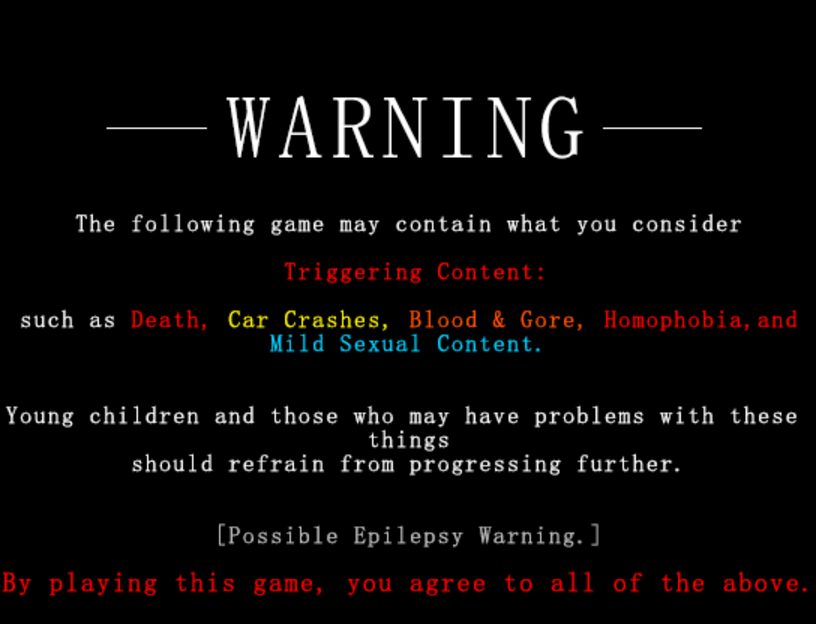
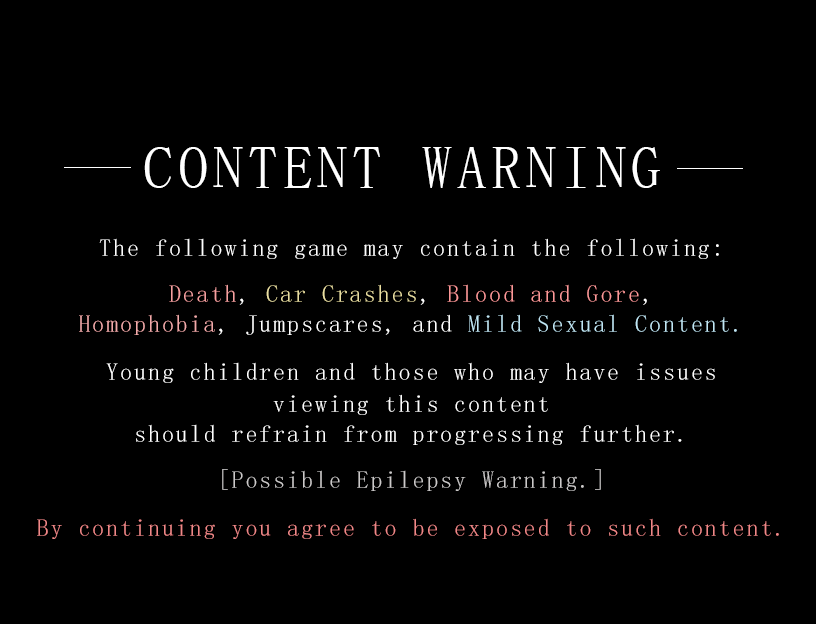
Warning screen makeover + adjusted the time it shows up on screen a little.

diff --git a/Valhalia Diary - TFP code/js/plugins.js b/Valhalia Diary - TFP code/js/plugins.js
@@ -3,7 +3,7 @@
 var $plugins =
 [
 {"name":"--------------------","status":false,"description":"------------------------------------------------------------","parameters":{}},
-{"name":"GALV_AnimatedSplashScreens","status":true,"description":"(v.1.1) Set up animated splash screens that show before the title screen.","parameters":{"----- SPLASH SCREENS -----":"","Splash Images":"transplogo,150,3,121|warning,200,2,0","Splash Background":"#000000","Splash Skip":"ONE"}},
+{"name":"GALV_AnimatedSplashScreens","status":true,"description":"(v.1.1) Set up animated splash screens that show before the title screen.","parameters":{"----- SPLASH SCREENS -----":"","Splash Images":"transplogo,150,3,121|warning,350,1,0","Splash Background":"#000000","Splash Skip":"ONE"}},
 {"name":"YEP_CoreEngine","status":true,"description":"v1.32 Needed for the majority of Yanfly Engine Scripts. Also\r\ncontains bug fixes found inherently in RPG Maker.","parameters":{"---Screen---":"","Screen Width":"816","Screen Height":"624","Scale Battlebacks":"true","Scale Title":"true","Scale Game Over":"true","Open Console":"false","Reposition Battlers":"true","GameFont Load Timer":"0","Update Real Scale":"false","Collection Clear":"true","---Gold---":"","Gold Max":"99999999","Gold Font Size":"20","Gold Icon":"313","Gold Overlap":"A lotta","---Items---":"","Default Max":"99","Quantity Text Size":"20","---Parameters---":"","Max Level":"99","Actor MaxHP":"9999","Actor MaxMP":"9999","Actor Parameter":"999","Enemy MaxHP":"999999","Enemy MaxMP":"9999","Enemy Parameter":"999","---Battle---":"","Animation Rate":"4","Flash Target":"false","Show Events Transition":"true","Show Events Snapshot":"true","---Map Optimization---":"","Refresh Update HP":"true","Refresh Update MP":"true","Refresh Update TP":"false","---Font---":"","Chinese Font":"SimHei, Heiti TC, sans-serif","Korean Font":"Dotum, AppleGothic, sans-serif","Default Font":"GameFont, Verdana, Arial, Courier New","Font Size":"28","Text Align":"left","---Windows---":"","Digit Grouping":"true","Line Height":"36","Icon Width":"32","Icon Height":"32","Face Width":"144","Face Height":"144","Window Padding":"18","Text Padding":"6","Window Opacity":"192","Gauge Outline":"true","Gauge Height":"18","Menu TP Bar":"true","---Window Colors---":"","Color: Normal":"0","Color: System":"16","Color: Crisis":"17","Color: Death":"18","Color: Gauge Back":"19","Color: HP Gauge 1":"20","Color: HP Gauge 2":"21","Color: MP Gauge 1":"22","Color: MP Gauge 2":"23","Color: MP Cost":"23","Color: Power Up":"24","Color: Power Down":"25","Color: TP Gauge 1":"28","Color: TP Gauge 2":"29","Color: TP Cost Color":"29"}},
 {"name":"YEP_SaveCore","status":true,"description":"v1.06 Alter the save menu for a more aesthetic layout\nand take control over the file system's rules.","parameters":{"---General---":"","Max Files":"24","Saved Icon":"231","Empty Icon":"230","Return After Saving":"false","Auto New Index":"true","---Action Window---":"","Load Command":"Load","Save Command":"Save","Delete Command":"Delete","---Help Window---":"","Select Help":"Please select a page.","Load Help":"Loads the data from the page.","Save Help":"Saves the current progress in your game.","Delete Help":"Deletes all data from this page.","---Delete---":"","Delete Filename":"Up1","Delete Volume":"100","Delete Pitch":"150","Delete Pan":"0","---Info Window---":"","Show Game Title":"true","Invalid Game Text":"This save is for a different game or DLC.","Empty Game Text":"Empty","Map Display Name":"true","Party Display":"3","Party Y Position":"this.lineHeight() + Window_Base._faceHeight","Show Actor Names":"true","Name Font Size":"20","Show Actor Level":"true","Level Font Size":"20","Level Format":"\\c[16]%1 \\c[0]%3","Data Font Size":"20","Data Column 1":"empty, playtime, save count, gold count","Data Column 2":"location","Data Column 3":"empty","Data Column 4":"","---Vocabulary---":"","Map Location":"","Playtime":"Playtime:","Save Count":"Total Saves:","Gold Count":"%1:","---Technical---":"","Save Mode":"auto","Local Config":"config.rpgsave","Local Global":"global.rpgsave","Local Save":"file%1.rpgsave","Web Config":"RPG %1 Config","Web Global":"RPG %1 Global","Web Save":"RPG %1 File%2","---Confirmation---":"","Load Confirmation":"true","Load Text":"Do you want to read this page?","Save Confirmation":"true","Save Text":"Do you want to write this page?","Delete Confirmation":"true","Delete Text":"Do you want to clear this page?","Confirm Yes":"Yes","Confirm No":"No"}},
 {"name":"YEP_ButtonCommonEvents","status":true,"description":"v1.02 On the field map, call common events when certain\nbuttons are pressed on the keyboard.","parameters":{"---Top Row---":"","Key ~":"0","Key 1":"0","Key 2":"0","Key 3":"0","Key 4":"0","Key 5":"0","Key 6":"0","Key 7":"0","Key 8":"0","Key 9":"0","Key 0":"0","Key -":"0","Key =":"0","---2nd Row---":"","Key Q (PageUp)":"0","Key W (PageDown)":"0","Key E":"0","Key R":"0","Key T":"0","Key Y":"0","Key U":"0","Key I":"0","Key O":"0","Key P":"0","Key [":"0","Key ]":"0","Key \\":"0","---3rd Row---":"","Key A":"0","Key S":"0","Key D":"0","Key F":"40","Key G":"0","Key H":"0","Key J":"0","Key K":"0","Key L":"0","Key ;":"0","Key \"":"0","Key Enter (OK)":"0","---4th Row---":"","Key Shift (Dash)":"0","Key Z (OK)":"0","Key X (Cancel)":"0","Key C":"0","Key V":"0","Key B":"0","Key N":"0","Key M":"0","Key ,":"0","Key .":"0","Key /":"0","---Misc---":"","Key Space (OK)":"0","Key Left (Left)":"0","Key Up (Up)":"0","Key Right (Right)":"0","Key Down (Down)":"0","Key Insert (Cancel)":"0","Key Delete":"0","Key Home":"0","Key End":"0","Key Page Up (PageUp)":"0","Key Page Down (PageDown)":"0","---NumPad---":"","Key NumPad 0 (Cancel)":"0","Key NumPad 1":"0","Key NumPad 2 (Down)":"0","Key NumPad 3":"0","Key NumPad 4 (Left)":"0","Key NumPad 5":"0","Key NumPad 6 (Right)":"0","Key NumPad 7":"0","Key NumPad 8 (Up)":"0","Key NumPad 9":"0","Key NumPad .":"0","Key NumPad +":"0","Key NumPad -":"0","Key NumPad *":"0","Key NumPad /":"0"}},
